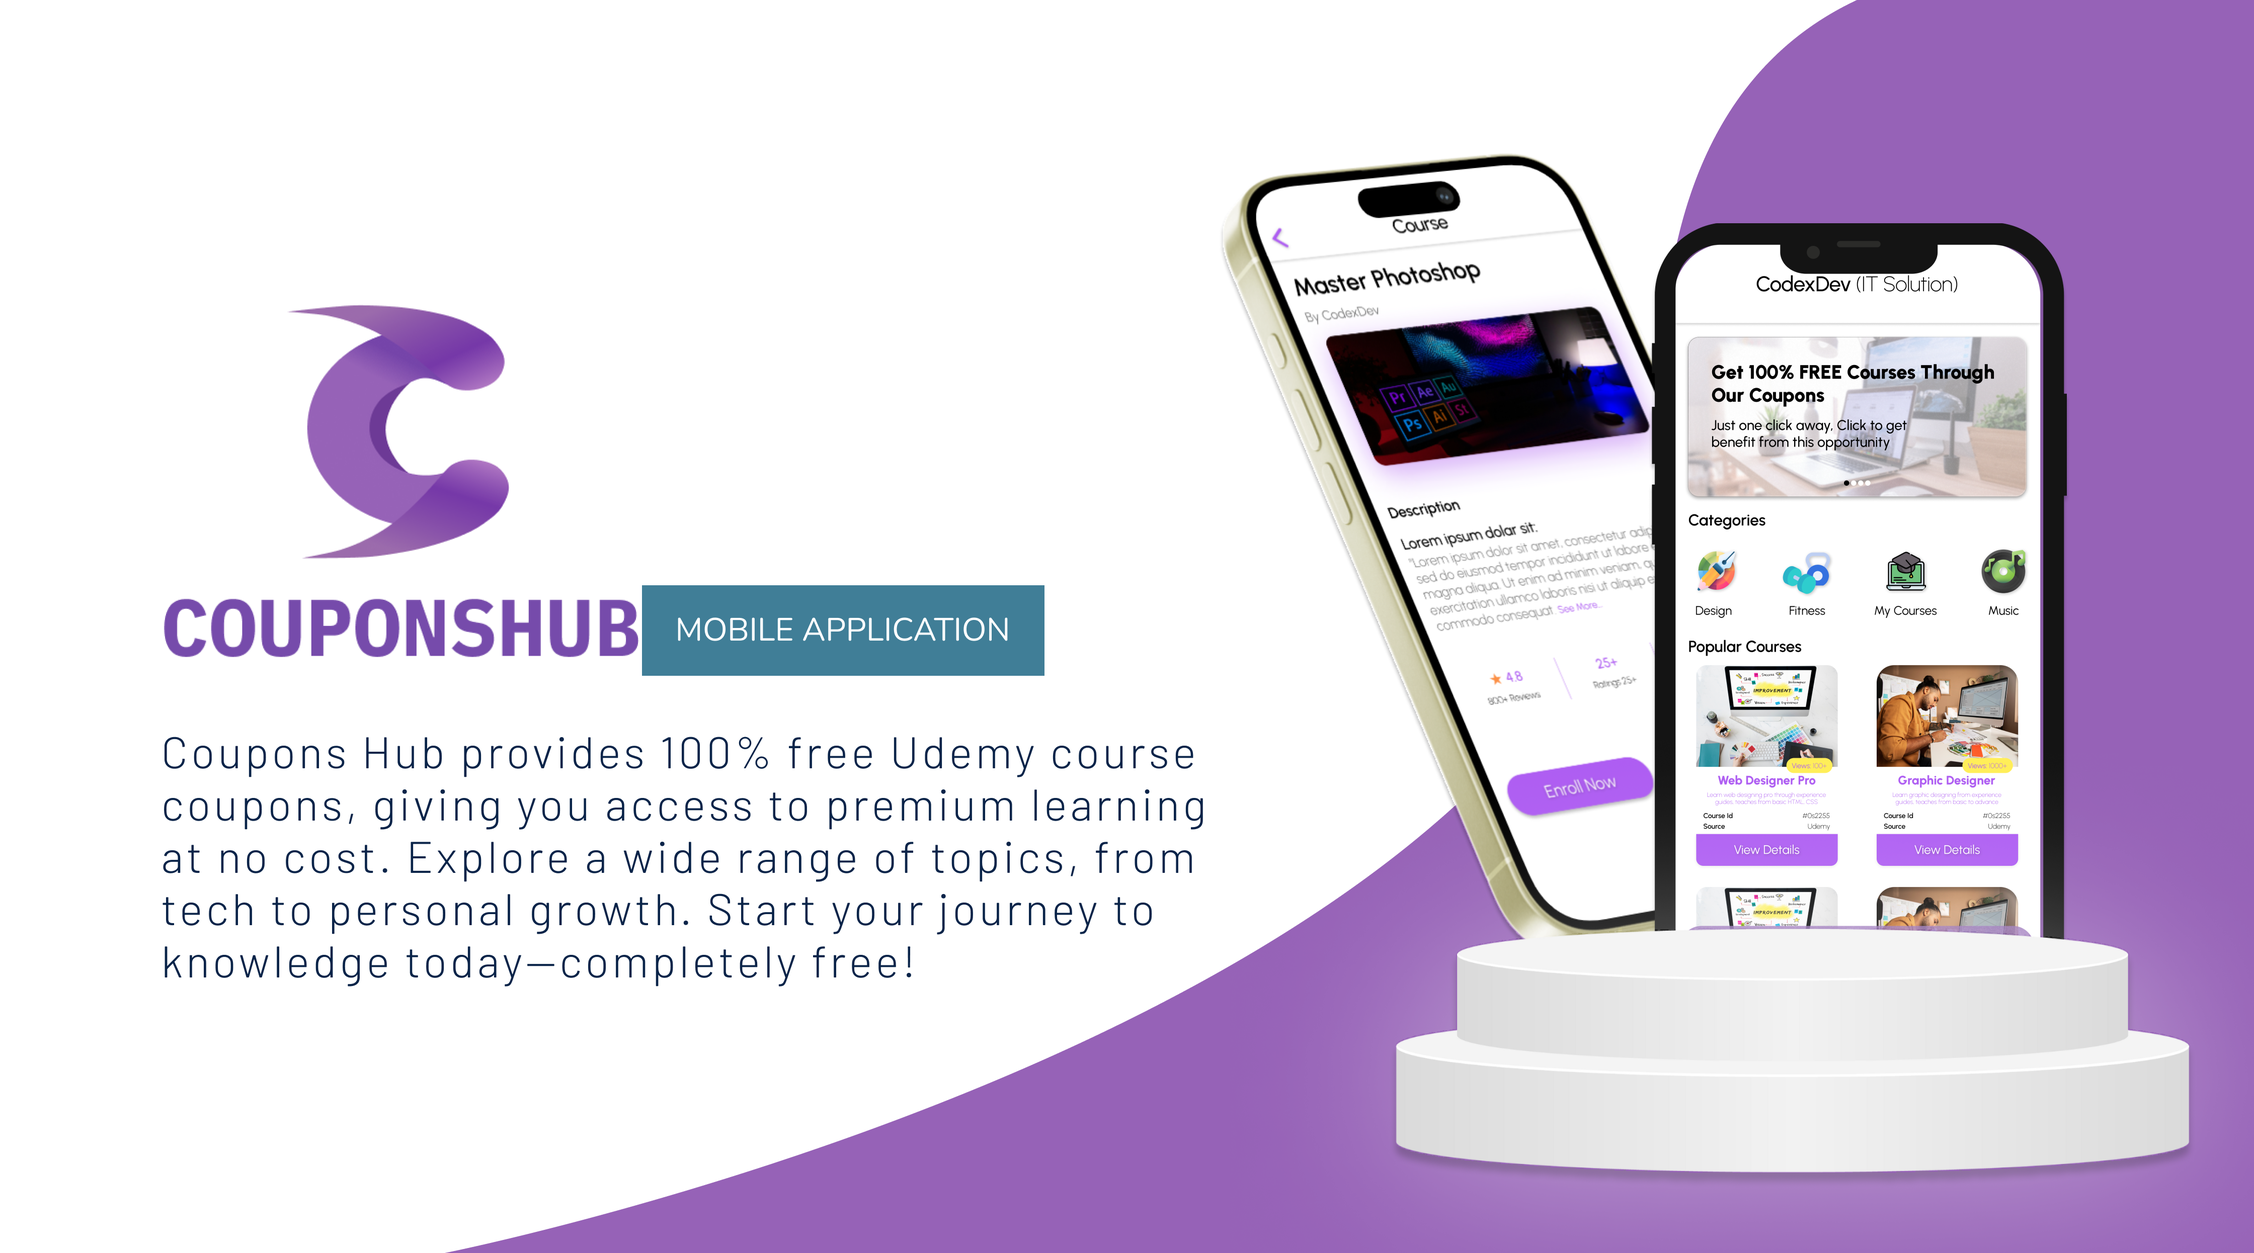
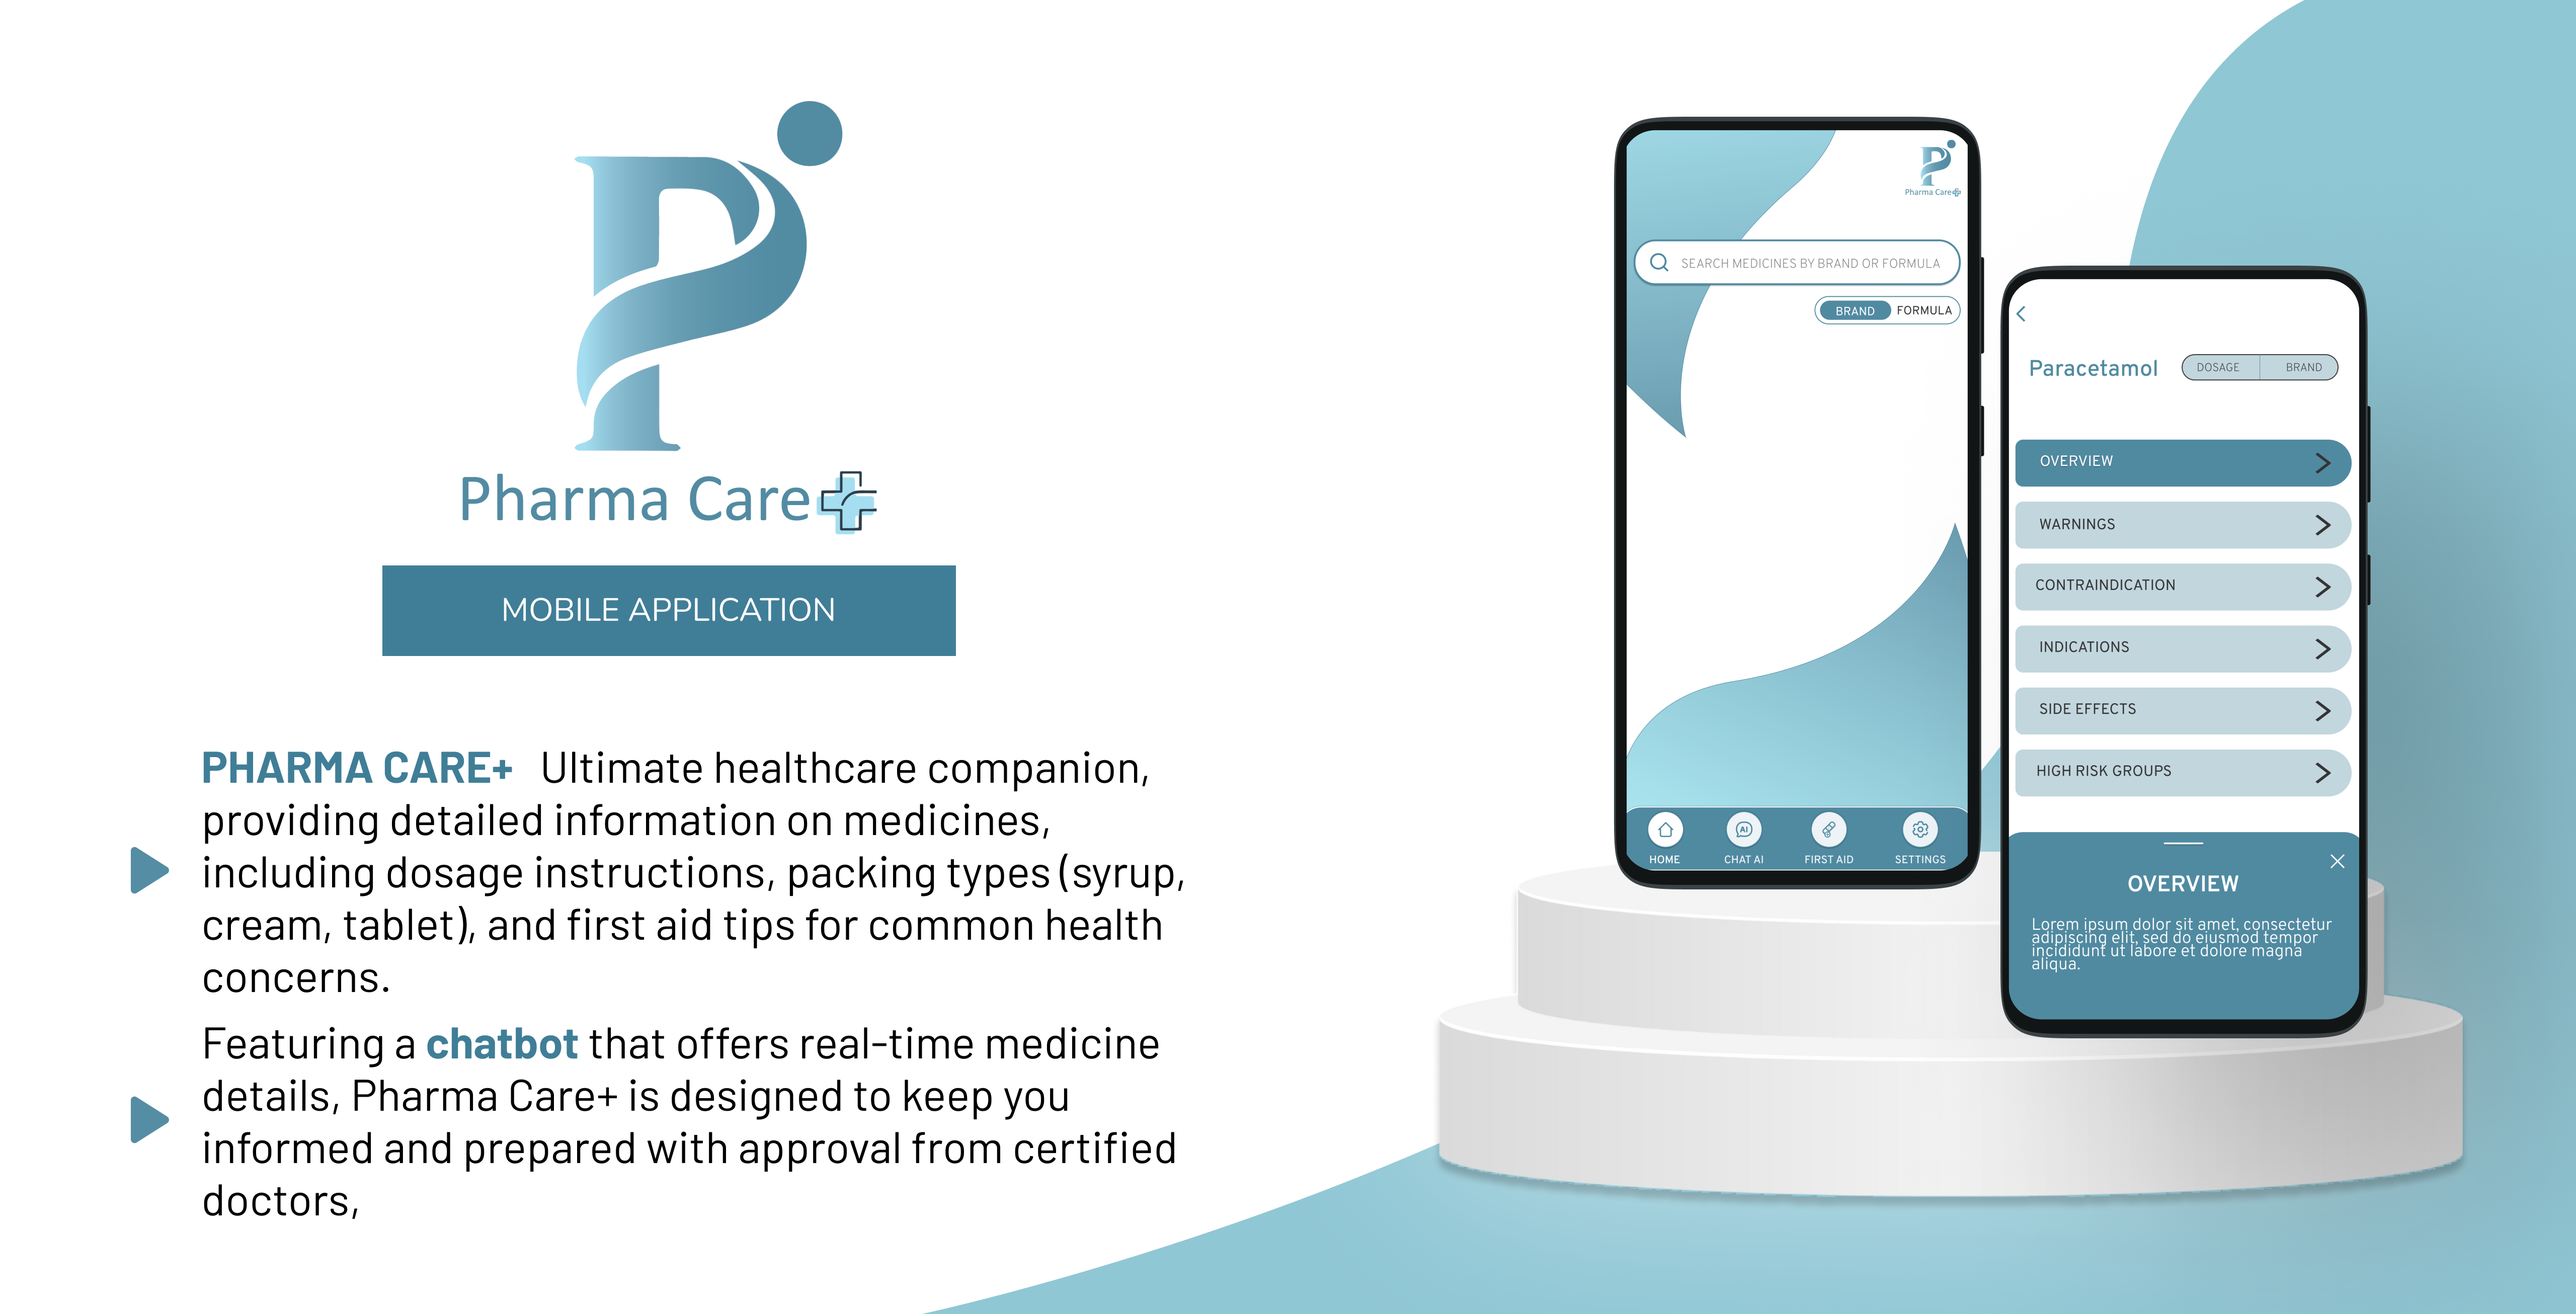
slider updated

diff --git a/index.html b/index.html
@@ -231,27 +231,6 @@
                         </div>
                         
                     </div>
-                
-                    <div class="card-profile">
-                        <div class="inner">
-                            <div class="profile">
-                                <div class="profileimg">
-                                    <img src="./images/Group 6.png" alt="profile" id="dots">
-                                    <img src="./images/shazaib.png" alt="fjg" id="haris">
-                                </div>
-                                <div class="profileinfo">
-                                    <h3>SHAHZAIB ALI KHAN</h3>
-                                    <h5>SOCIAL MEDIA MARKETING</h5>
-                                </div>
-                            </div>
-                            <div class="backprfile">
-                                <h3>SHAHZAIB ALI KHAN</h3>
-                                <p>Our social media marketer drives brand growth with targeted strategies that engage audiences and boost online presence."</p>
-                                <img src="images/social1.png" alt="logo">
-                            </div>
-                        </div>
-                </div>
-  
                     <div class="card-profile">
                         <div class="inner">
                             <div class="profile">
@@ -324,7 +303,7 @@
             <div class="swipper-container">
             <div class="swiper" id="productsectn">
                 <div class="swiper-wrapper">
-                    <div class="swiper-slide slide1"><img src="./images/CopunHub1.png" alt=""></div>
+                    <div class="swiper-slide slide1"><img src="./images/copunhub.png" alt=""></div>
                     <div class="swiper-slide slide2"><img src="./images/Pharmacare.png" alt=""></div>
                     <!-- <div class="swiper-slide slide3"></div> -->
                 </div> 

diff --git a/style.css b/style.css
@@ -15,6 +15,7 @@
 
 html {
     scroll-behavior: smooth;
+    cursor: context-menu;
 }
 body {
     font-family: barlow,serif;
@@ -173,9 +174,11 @@ body {
     font-weight: 900;
     color: var(--bluePrimary);
     line-height: 118%;
-    cursor: context-menu;
 }
-
+.headline>h1:hover{
+    
+    background: radial-gradient(800px circle, #0A2449,#abceff,#d9d9d9);
+}
 .headline>p {
     font-size: 1.75rem;
     font-family: "Barlow", serif;
@@ -559,7 +562,7 @@ body {
     height: 43.75rem;
 }
 .swiper {
-    width: 70rem;
+    width: 80rem;
     height: 37.5rem;
     margin-top: 2.37rem;
     border-radius: 0.62rem;
@@ -597,8 +600,8 @@ body {
     z-index:10;
 }
 
-.custom-prev {left: 5.3rem; }
-.custom-next { right:5.3rem; }
+.custom-prev {left: 0.76rem; }
+.custom-next { right:0.76rem; }
 /* Custom Pagination Dots */
 .swiper-pagination-bullet {
     width: 1rem;
@@ -724,6 +727,11 @@ body {
 .footertouch>.intouch>ul>li{
    margin-left : 3rem;
    padding-top: 0.5rem;
+   transition: all 0.5s ease-out;
+}
+.footertouch>.intouch>ul li:hover{
+   list-style: none;
+   color: white;
 }
 .line2{
     border-top: 1px solid #D2D2D260;

diff --git a/app.js b/app.js
@@ -16,7 +16,9 @@ const swiper = new Swiper('.swiper', {
         prevEl: '.custom-prev',
     },
     effect: 'fade', // Smooth fade transition (or use "slide" for normal)
+
 });
+
 // slider js code end
 
 // common header and footer js code
@@ -157,7 +159,6 @@ if (select && customArrow) {
 }
 document.addEventListener("click", function (event) {
     if (!customArrow.contains(event.target)) {
-        console.log("Selected");
         customArrow.classList.remove("active");
     }
 });
@@ -189,4 +190,11 @@ document.addEventListener('DOMContentLoaded', function () {
         window.scrollTo({ top: 0, behavior: 'smooth' });
         // No change to hash, so content remains visible
     });
+});
+const swiperPause = document.querySelector('.swiper');
+swiperPause.addEventListener('mouseenter',()=>{
+   swiper.autoplay.stop();
+});
+swiperPause.addEventListener('mouseleave',()=>{
+   swiper.autoplay.start();
 });
